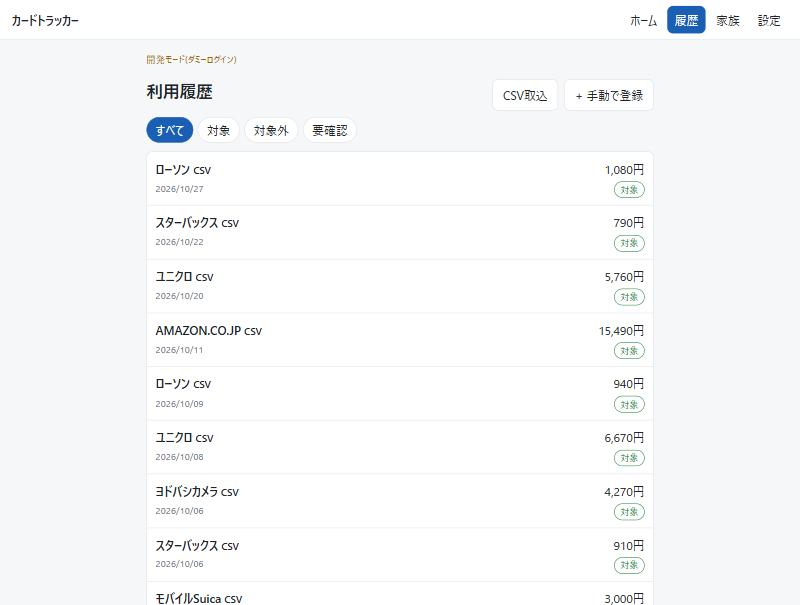
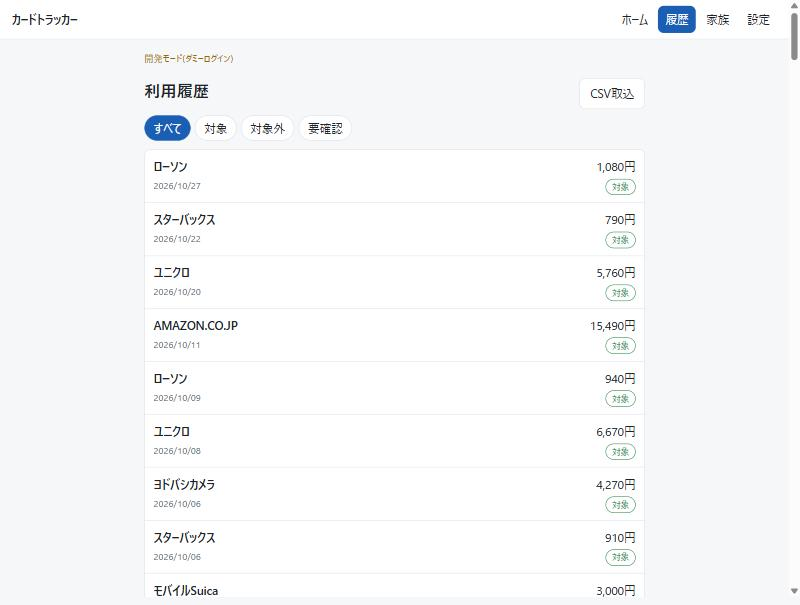
コードとREADMEを最新の状態に更新

diff --git a/cardtracker/templates/history.html b/cardtracker/templates/history.html
@@ -3,10 +3,7 @@
 {% block content %}
 <div class="page-head">
   <h1>利用履歴</h1>
-  <div class="button-row">
-    <a class="button" href="{{ url_for('main.import_statement') }}">CSV取込</a>
-    <a class="button" href="{{ url_for('main.new_transaction') }}">+ 手動で登録</a>
-  </div>
+  <a class="button" href="{{ url_for('main.import_statement') }}">CSV取込</a>
 </div>
 <nav class="filters" aria-label="判定で絞り込み">
   {% for key, label in [('all', 'すべて'), ('target', '対象'), ('excluded', '対象外'), ('review', '要確認')] %}
@@ -19,7 +16,7 @@
   <li class="tx{% if not in_range %} out-of-range{% endif %}">
     <a href="{{ url_for('main.edit_transaction', tx_id=tx.id, back=status) }}">
       <span class="tx-main">
-        <span class="tx-merchant">{{ tx.merchant }} <small>{{ 'CSV' if tx.source == 'csv' else '手動登録' }}</small></span>
+        <span class="tx-merchant">{{ tx.merchant }}</span>
         <span class="tx-date">{{ tx.used_at_label }}</span>
         {% if tx.auto_reason and not tx.manual_override %}<span class="tx-reason">{{ tx.auto_reason }}</span>{% endif %}
         {% if not in_range %}<span class="tx-reason">集計期間外</span>{% endif %}

diff --git a/cardtracker/templates/edit.html b/cardtracker/templates/edit.html
@@ -9,7 +9,6 @@
     <div><dt>利用先</dt><dd>{{ tx.merchant }}</dd></div>
     <div><dt>元の金額</dt><dd>{{ tx.original_amount|yen }}</dd></div>
     {% if tx.card_label %}<div><dt>カード</dt><dd>{{ tx.card_label }}</dd></div>{% endif %}
-    <div><dt>取得元</dt><dd>{{ '明細CSV' if tx.source == 'csv' else '手動登録' }}</dd></div>
     <div><dt>自動判定</dt><dd>{{ labels[tx.auto_status] }}{% if tx.auto_reason %}({{ tx.auto_reason }}){% endif %}</dd></div>
   </dl>
 </section>
@@ -34,12 +33,6 @@
   <form method="post" action="{{ url_for('main.reset_transaction', tx_id=tx.id) }}">
     {{ csrf_field() }}
     <button type="submit" class="link-button">手動の修正を取り消して自動判定に戻す</button>
-  </form>
-  {% endif %}
-  {% if tx.source == 'manual' %}
-  <form method="post" action="{{ url_for('main.delete_transaction', tx_id=tx.id) }}">
-    {{ csrf_field() }}
-    <button type="submit" class="link-button danger">この手動登録を削除する</button>
   </form>
   {% endif %}
 </section>

diff --git a/cardtracker/templates/base.html b/cardtracker/templates/base.html
@@ -12,7 +12,7 @@
     <a class="brand" href="{{ url_for('main.home') }}">カードトラッカー</a>
     <nav>
       <a href="{{ url_for('main.home') }}" {% if request.endpoint == 'main.home' %}aria-current="page"{% endif %}>ホーム</a>
-      <a href="{{ url_for('main.history') }}" {% if request.endpoint in ('main.history', 'main.edit_transaction', 'main.new_transaction') %}aria-current="page"{% endif %}>履歴</a>
+      <a href="{{ url_for('main.history') }}" {% if request.endpoint in ('main.history', 'main.edit_transaction') %}aria-current="page"{% endif %}>履歴</a>
       <a href="{{ url_for('main.family') }}" {% if request.endpoint == 'main.family' %}aria-current="page"{% endif %}>家族</a>
       <a href="{{ url_for('main.settings') }}" {% if request.endpoint == 'main.settings' %}aria-current="page"{% endif %}>設定</a>
     </nav>

diff --git a/cardtracker/templates/settings.html b/cardtracker/templates/settings.html
@@ -49,7 +49,7 @@
 
 <section class="card">
   <h2>明細のリセット</h2>
-  <p class="muted small">自分が取り込んだ明細(手動登録を含む)を削除します。集計期間・対象外ルール・家族の明細はそのまま残ります。削除したあと、明細CSVを取り込み直せます。元に戻すことはできません。</p>
+  <p class="muted small">自分が取り込んだ明細を削除します。集計期間・対象外ルール・家族の明細はそのまま残ります。削除したあと、明細CSVを取り込み直せます。元に戻すことはできません。</p>
   <form method="post" action="{{ url_for('main.reset_data') }}" class="stack">
     {{ csrf_field() }}
     <label>削除する月 <input type="month" name="month" required></label>

diff --git a/cardtracker/templates/privacy.html b/cardtracker/templates/privacy.html
@@ -21,8 +21,10 @@
   <h2>データの削除</h2>
   <p>取り込んだデータの削除を希望する場合は、下記の連絡先までご連絡ください。</p>
 
+  {% if contact %}
   <h2>連絡先</h2>
-  <p>contact@example.com</p>
+  <p>{{ contact }}</p>
+  {% endif %}
   <p class="muted small">制定日: 2026年10月17日 / 改定日: 2026年11月1日(Gmail連携を廃止)</p>
 </section>
 {% endblock %}

diff --git a/cardtracker/views.py b/cardtracker/views.py
@@ -7,7 +7,6 @@ from __future__ import annotations
 
 import unicodedata
 from datetime import date, datetime, timedelta
-from decimal import Decimal
 
 from flask import Blueprint, abort, flash, g, redirect, render_template, request, url_for
 from sqlalchemy import delete, select
@@ -96,43 +95,6 @@ def reset_transaction(tx_id):
     return redirect(url_for("main.edit_transaction", tx_id=tx.id))
 
 
-@bp.post("/transactions/<int:tx_id>/delete")
-@login_required
-def delete_transaction(tx_id):
-    tx = own_transaction(tx_id)
-    if tx.source != "manual":
-        abort(400, "CSVから取り込んだ取引は削除できません。「対象外」に変更してください。")
-    db_session.delete(tx)
-    db_session.commit()
-    flash("手動登録の取引を削除しました。", "info")
-    return redirect(url_for("main.history"))
-
-
-# ---------- 手動登録 (F-09) ----------
-
-@bp.route("/transactions/new", methods=["GET", "POST"])
-@login_required
-def new_transaction():
-    if request.method == "GET":
-        return render_template("new.html", form={})
-    form = request.form
-    try:
-        used_at = datetime.strptime(f"{form.get('date')} {form.get('time') or '00:00'}", "%Y-%m-%d %H:%M")
-        amount = parse_yen(form.get("amount"))
-    except ValueError:
-        amount = None
-    merchant = (form.get("merchant") or "").strip()[:200]
-    if amount is None or not merchant:
-        flash("日付・利用先・金額(円)を正しく入力してください。", "error")
-        return render_template("new.html", form=form)
-    tx = Transaction(user_id=g.user.id, source="manual", used_at=used_at, merchant=merchant,
-                     original_amount=Decimal(amount))
-    db_session.add(tx)
-    classify_and_save(tx)
-    flash(f"登録しました(判定: {tx.status_label})。", "info")
-    return redirect(url_for("main.history"))
-
-
 # ---------- 明細CSVの取り込み (F-02) ----------
 
 @bp.route("/import", methods=["GET", "POST"])
@@ -195,7 +157,7 @@ def save_period():
 @bp.post("/settings/reset")
 @login_required
 def reset_data():
-    """自分の明細(CSV取込・手動登録)を、全部または指定した月の分だけ削除する。家族の明細と設定は残す。"""
+    """自分の明細を、全部または指定した月の分だけ削除する。家族の明細と設定は残す。"""
     if request.form.get("confirm") != "1":
         flash("「削除してよい」にチェックを入れてください。", "error")
         return redirect(url_for("main.settings"))

diff --git a/tests/test_app.py b/tests/test_app.py
@@ -33,7 +33,7 @@ def test_login_required(app):
 
 def test_csrf_required(client_for):
     cl = client_for(1)
-    assert cl.c.post("/transactions/new", data={}).status_code == 400
+    assert cl.c.post("/import", data={}).status_code == 400
 
 
 def test_home_shows_total(client_for):
@@ -122,19 +122,6 @@ def test_non_admin_cannot_change_rules(client_for):
     assert dad.post("/rules", keyword="X").status_code == 403
 
 
-def test_manual_registration(client_for):
-    cl = client_for(2)
-    cl.post("/transactions/new", date="2026-10-01", time="12:00", merchant="近所の店", amount="3,000")
-    t = find_tx(2, "近所の店")
-    assert (t.source, t.final_status, t.effective_amount) == ("manual", TARGET, 3000)
-
-
-def test_csv_rows_cannot_be_deleted(client_for):
-    cl = client_for(1)
-    cl.upload()
-    assert cl.post(f"/transactions/{find_tx(1, 'AMAZON.CO.JP').id}/delete").status_code == 400
-
-
 def test_removed_account_is_logged_out(app, client_for):
     cl = client_for(3)
     app.config["APP"].allowed_users = [u for u in app.config["APP"].allowed_users if u.email != "mother@example.com"]
@@ -145,7 +132,9 @@ def test_removed_account_is_logged_out(app, client_for):
 def test_privacy_page_is_public(app):
     resp = app.test_client().get("/privacy")
     assert resp.status_code == 200
-    assert "プライバシーポリシー" in resp.get_data(as_text=True)
+    html = resp.get_data(as_text=True)
+    assert "プライバシーポリシー" in html
+    assert "me@example.com" in html  # 連絡先は管理者のメールアドレス
 
 
 def test_rule_toggle_and_delete(client_for):
@@ -176,7 +165,7 @@ def test_reset_requires_confirmation(client_for):
 def test_reset_month_only_deletes_that_month(client_for):
     cl = client_for(1)
     cl.upload()
-    cl.post("/transactions/new", date="2026-10-01", merchant="10月の店", amount="1000")
+    cl.upload("〇〇 様,,カード\r\n2026/10/01,10月の店,1000,,,,\r\n")
     cl.post("/settings/reset", month="2026-09", confirm="1")
     assert tx_count(1) == 1  # 9月の5件だけ消え、10月の1件は残る
     assert find_tx(1, "10月の店") is not None

diff --git a/cardtracker/models.py b/cardtracker/models.py
@@ -57,14 +57,14 @@ class Transaction(Base):
 
     id: Mapped[int] = mapped_column(primary_key=True)
     user_id: Mapped[int] = mapped_column(ForeignKey("users.id"), index=True)
-    source: Mapped[str] = mapped_column(String(10), default="csv")  # csv / manual
+    source: Mapped[str] = mapped_column(String(10), default="csv")  # 現在はcsvのみ(本番DBにある列なので残す)
     # CSV取込の重複防止キー(利用日・利用先・金額・同じ内容の何件目か から作るハッシュ)
     import_key: Mapped[str | None] = mapped_column(String(64))
 
     used_at: Mapped[datetime] = mapped_column(DateTime)  # 日本時間
     merchant: Mapped[str] = mapped_column(String(200))
     card_label: Mapped[str | None] = mapped_column(String(100))
-    original_amount: Mapped[Decimal] = mapped_column(Numeric(14, 2))  # 明細CSV(または手動登録)の円金額
+    original_amount: Mapped[Decimal] = mapped_column(Numeric(14, 2))  # 明細CSVの円金額
     corrected_amount: Mapped[int | None] = mapped_column(Integer)  # 本人が修正した円金額
 
     auto_status: Mapped[str] = mapped_column(String(10), default=REVIEW)
@@ -83,8 +83,7 @@ class Transaction(Base):
 
     @property
     def used_at_label(self) -> str:
-        # 明細CSVには時刻がないので日付だけ表示する
-        return self.used_at.strftime("%Y/%m/%d" if self.source == "csv" else "%Y/%m/%d %H:%M")
+        return self.used_at.strftime("%Y/%m/%d")
 
     @property
     def status_label(self) -> str:

diff --git a/api/index.py b/api/index.py
@@ -1,25 +1,9 @@
 """Vercelの入口。Vercelはこのファイルの `app` (WSGIアプリ)を呼び出す。"""
 import sys
-from html import escape
 from pathlib import Path
-
-from flask import Flask
 
 sys.path.insert(0, str(Path(__file__).resolve().parent.parent))
 
 from cardtracker import create_app  # noqa: E402
 
-
-def build_app() -> Flask:
-    try:
-        return create_app()
-    except RuntimeError as e:
-        # 環境変数が足りないときは500で落とさず、足りない変数の名前だけを表示する(値は表示しない)
-        fallback = Flask(__name__)
-        page = f"<meta charset='utf-8'><title>セットアップ中</title><h1>セットアップ中です</h1><p>{escape(str(e))}</p>"
-        fallback.add_url_rule("/", "pending", lambda path="": (page, 503))
-        fallback.add_url_rule("/<path:path>", "pending")
-        return fallback
-
-
-app = build_app()  # Vercelが静的に検出するので、ファイルの一番外側で定義する
+app = create_app()  # Vercelが静的に検出するので、ファイルの一番外側で定義する

diff --git a/tests/test_classifier.py b/tests/test_classifier.py
@@ -5,7 +5,7 @@ from cardtracker.models import EXCLUDED, REVIEW, TARGET, Transaction
 
 
 def tx(**kw):
-    base = dict(source="csv", merchant="ローソン", original_amount=Decimal("1000"),
+    base = dict(merchant="ローソン", original_amount=Decimal("1000"),
                 card_label="三井住友カード(NL)", manual_override=False)
     base.update(kw)
     return Transaction(**base)
@@ -27,8 +27,6 @@ def test_card_label_filter():
     assert classify(tx(card_label="Sample/クレジット"), RULES, "NL") == (EXCLUDED, "対象カード以外")
     assert classify(tx(card_label="三井住友カード(NL)"), RULES, "ＮＬ")[0] == TARGET
     assert classify(tx(card_label=None), RULES, "NL")[0] == REVIEW
-    # 手動登録はカード名を持たないので、カード名の条件では判定しない
-    assert classify(tx(source="manual", card_label=None), RULES, "NL")[0] == TARGET
 
 
 def test_manual_override_keeps_final_status():

diff --git a/cardtracker/__init__.py b/cardtracker/__init__.py
@@ -6,7 +6,7 @@ from datetime import timedelta, timezone
 from flask import Flask, g, render_template
 from sqlalchemy import select
 
-from . import auth, cli, views
+from . import auth, views
 from .config import Config
 from .db import create_tables, db_session, init_engine
 from .models import ExclusionRule
@@ -62,7 +62,6 @@ def create_app(config: Config | None = None) -> Flask:
     auth.init_oauth(app)
     app.register_blueprint(auth.bp)
     app.register_blueprint(views.bp)
-    cli.register(app)
 
     app.before_request(check_csrf)
     app.before_request(auth.load_current_user)

diff --git a/cardtracker/csv_import.py b/cardtracker/csv_import.py
@@ -93,7 +93,7 @@ def import_csv(session, user: User, data: bytes) -> tuple[int, int]:
         seen[ident] += 1
         if key in existing:
             continue
-        tx = Transaction(user_id=user.id, source="csv", import_key=key, used_at=used_at, merchant=merchant,
+        tx = Transaction(user_id=user.id, import_key=key, used_at=used_at, merchant=merchant,
                          card_label=card_label, original_amount=Decimal(amount))
         session.add(tx)
         apply_classification(tx, rules, user.card_setting.card_label)
